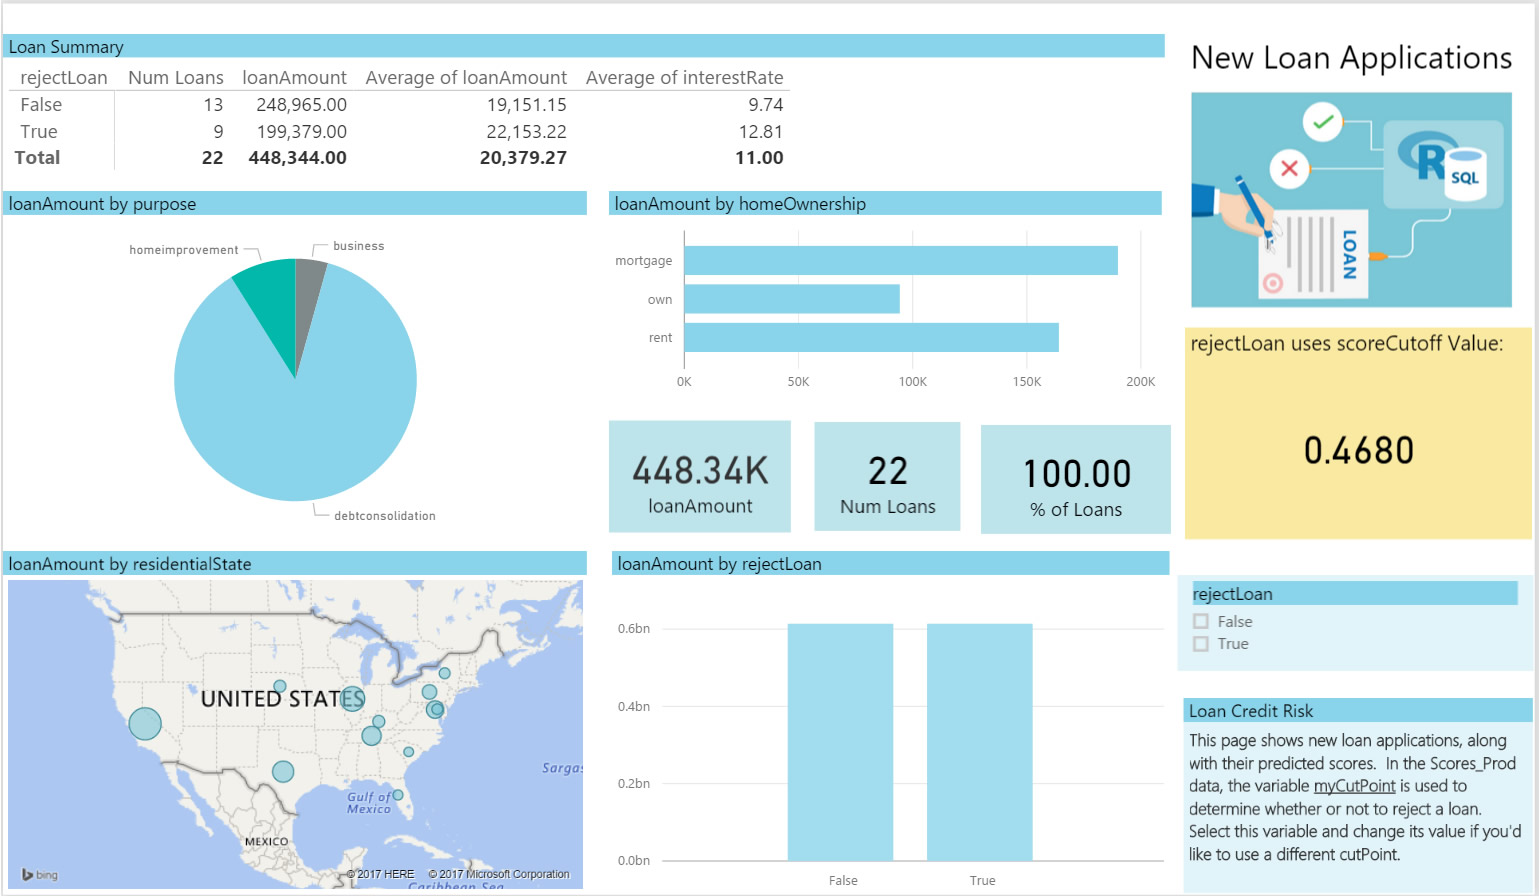
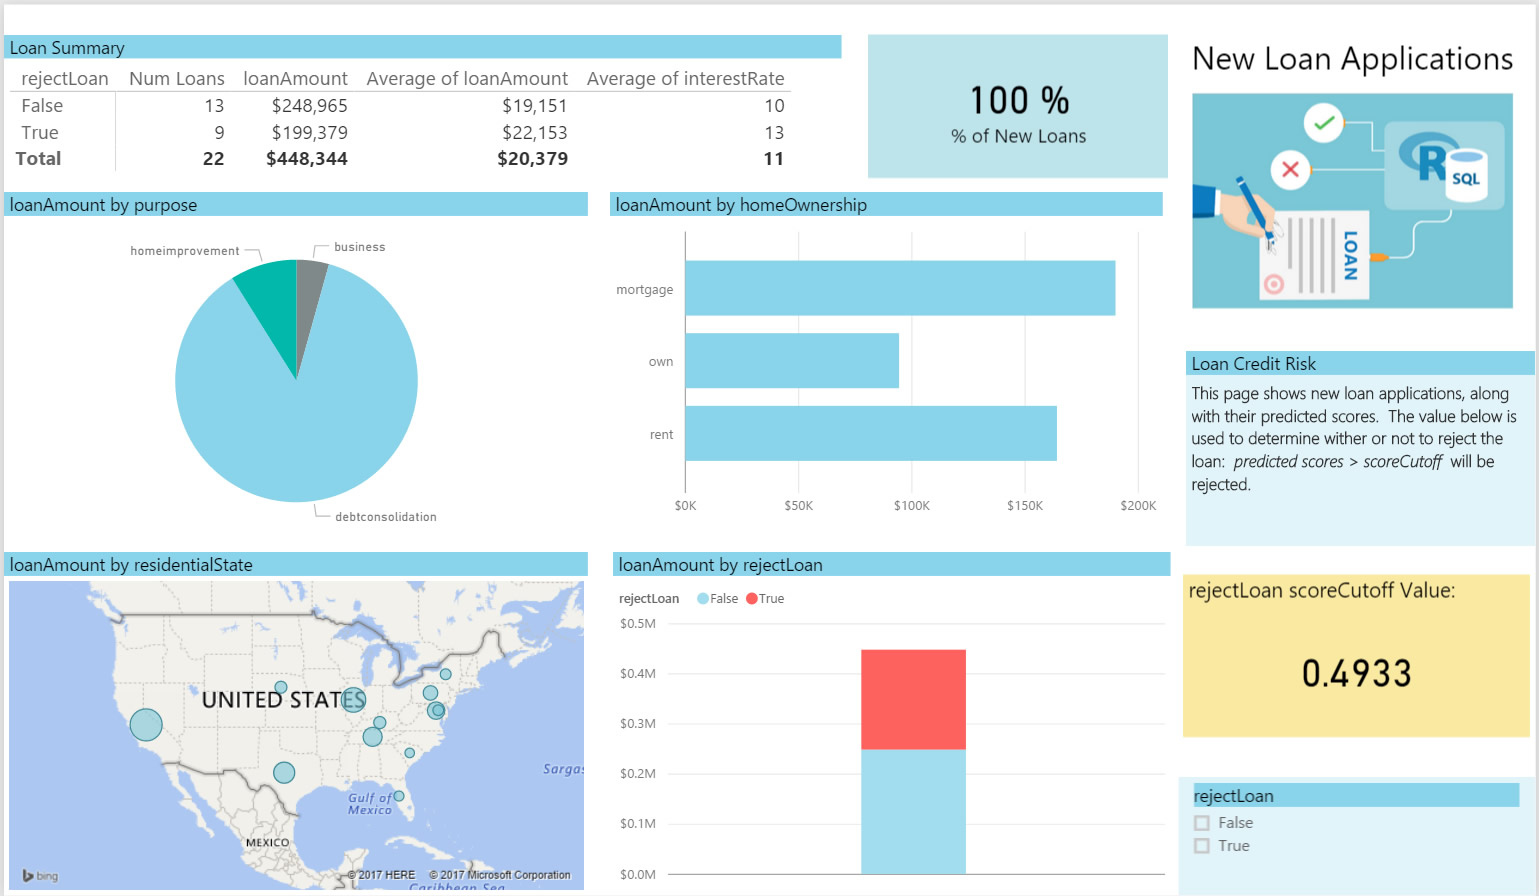
Update pages (#6)
* revised pbi

* updates

diff --git a/business-manager.md b/business-manager.md
@@ -35,14 +35,14 @@ The PowerBI dashboard allows you to visualize and use these predicted scores to 
 
 ### Test Data Tab
 <img src="images/test.jpg">
-The output scores from the model have been binned according to the percentiles: the higher the percentile, and the most likely the risk of default.  On the Test Data tab, you can use the checkboxes at the top right to examine loans in the test data that correspond to these percentiles. Start by unchecking all boxes, which shows the entire test set. Then starting at the top (99%), check consecutive boxes to view characteristics of those loans whose scores fall into that percentile or above. This  corresponds to a specific choice of a score cutoff value which is shown directly below the checkboxes. For example, for percentiles of 80 and above, the score cutoff is .4680, which means that all scores higher than 0.4680 will be classified as bad. Among those loans classified as bad, the real or expected bad rate is indicated in the box below (here 37%). 
+The output scores from the model have been binned according to the percentiles: the higher the percentile, and the most likely the risk of default.  On the Test Data tab, you can use the checkboxes at the top right to examine loans in the test data that correspond to these percentiles. Start by unchecking all boxes, which shows the entire test set. Then starting at the top (99%), check consecutive boxes to view characteristics of those loans whose scores fall into that percentile or above. This  corresponds to a specific choice of a score cutoff value which is shown directly below the checkboxes. For example, for percentiles of 81 and above, the score cutoff is .4933, which means that all scores higher than 0.4933 will be classified as bad. Among those loans classified as bad, the real or expected bad rate is indicated in the box below ( 40%). 
 <p></p>
-The Loan Summary table divides those loans classified as bad in two: those that were indeed bad (Bad Loan = True) and those that were in fact good although they were classified as bad (Bad Loan = False). For each of those 2 categories, the table shows the number, total and average amount, and the average interest rate of the loans. This allows you to see the expected impact of choosing this cutoff value.
+The Loan Summary table divides those loans classified as bad in two: those that were indeed bad (Bad Loan = Ues) and those that were in fact good although they were classified as bad (Bad Loan = No). For each of those 2 categories, the table shows the number, total and average amount, and the average interest rate of the loans. This allows you to see the expected impact of choosing this cutoff value.
 <p></p>
 
-### Prod Data Tab
+### New Loans Tab
 <img src="images/prod.jpg">
-On the Prod Data tab you will see some scored potential loans. This page is using .4680 as the cutoff value. You will reject 9 of the 22 potential loans based on this critera. (Using PowerBI Desktop, you can change this cutoff to a different value.)
+On the New Loans tab you will see some scored potential loans. This page is using .4933 as the cutoff value. You will reject 9 of the 22 potential loans based on this critera. (With PowerBI Desktop, you can change this cutoff to a different value.)
 
  <p></p> 
 
